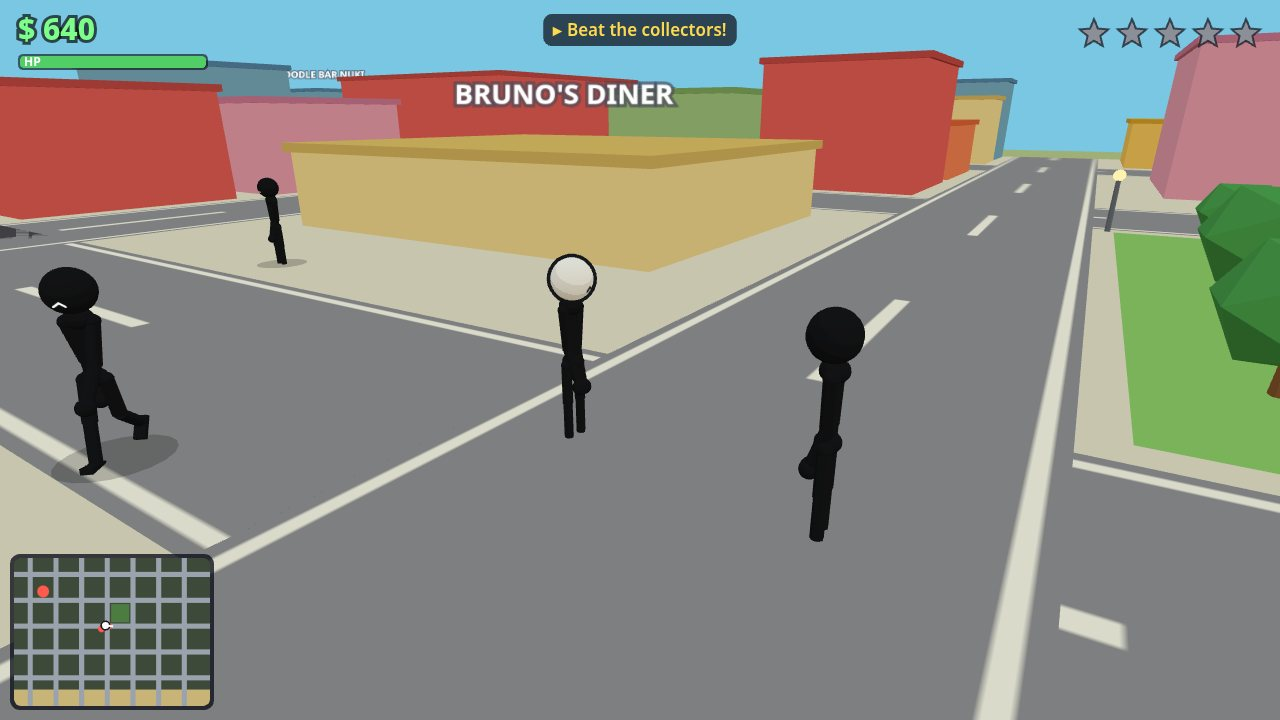
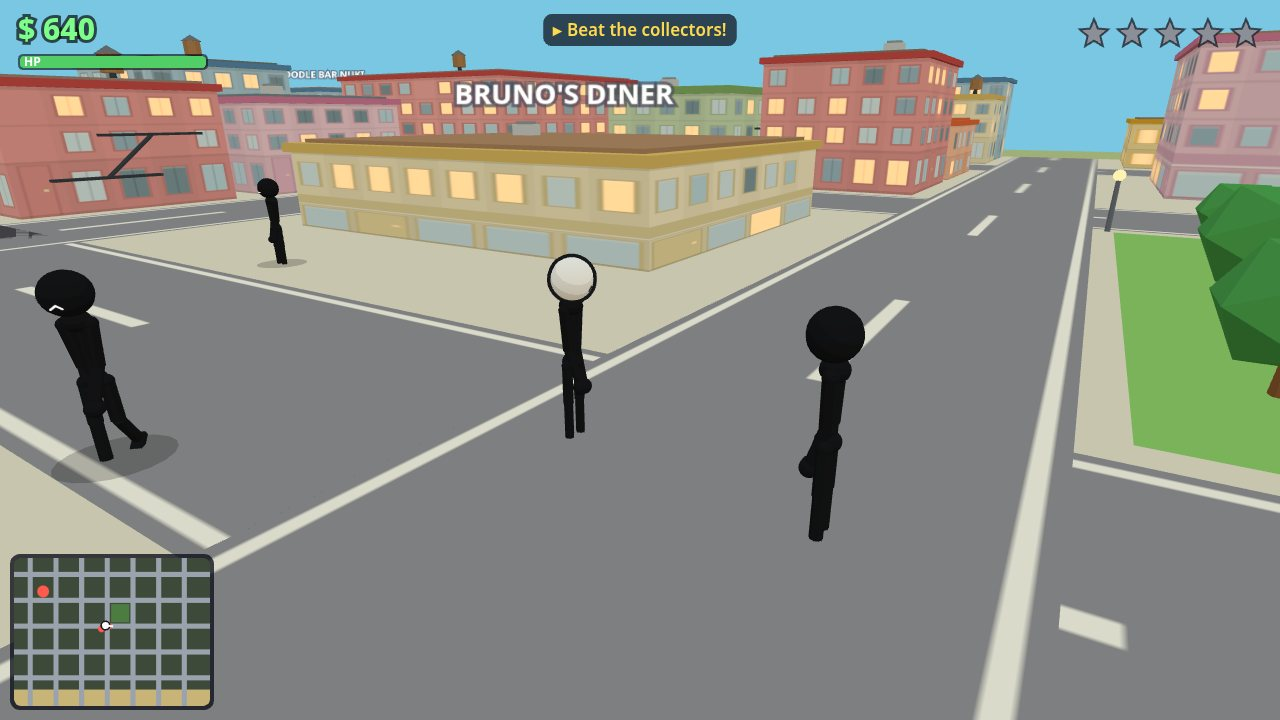
Detailed toon buildings: painted window facades, storefronts, parapets, rooftop props, awnings, fire escapes

diff --git a/game/src/world3d.js b/game/src/world3d.js
@@ -1,8 +1,10 @@
-// The 3D city of Palmera, built from the data in city.js: flat toon-shaded box
-// buildings with roof slabs and name sprites on the landmarks, dark road planes
-// with painted dashes, sidewalks, a park, a beach with a pier, palms and lamps.
-// Everything is procedural geometry in bright flat colours — a sunny diorama, never
-// realistic. World data coordinates (x, y) map to 3D as (x, height, y).
+// The 3D city of Palmera, built from the data in city.js: toon-shaded buildings
+// whose facades are painted on canvas (window grids with frames and lit panes,
+// ground-floor storefronts, doors), with parapet roofs, rooftop props, awnings
+// on the landmarks and a few fire escapes; dark road planes with painted dashes,
+// sidewalks, a park, a beach with a pier, palms and lamps. Everything is
+// procedural in bright flat colours — a sunny diorama, never realistic.
+// World data coordinates (x, y) map to 3D as (x, height, y).
 import * as THREE from 'three';
 import { COLORS, ROAD, WORLD } from './config.js';
 import { toonMat, basicMat, toonGradient } from './stick3d.js';
@@ -60,6 +62,216 @@ function flatPlane(w, h, material) {
   const mesh = new THREE.Mesh(new THREE.PlaneGeometry(w, h), material);
   mesh.rotation.x = -Math.PI / 2;
   return mesh;
+}
+
+/** Deterministic 0..1 hash from a number, so facades are stable between runs. */
+function hash01(n) {
+  const s = Math.sin(n * 127.1 + 311.7) * 43758.5453123;
+  return s - Math.floor(s);
+}
+
+/** A THREE.Color shade of a hex string, scaled by f (1 = unchanged). */
+function shade(hex, f) {
+  const c = new THREE.Color(hex);
+  c.r = Math.min(1, c.r * f);
+  c.g = Math.min(1, c.g * f);
+  c.b = Math.min(1, c.b * f);
+  return `#${c.getHexString()}`;
+}
+
+/** Flat roof tones a parapet cap can wear, besides the building's own wall colour. */
+const ROOF_TONES = ['#8d7d6b', '#a1887f', '#7d8a96', '#b08968', '#6f7d7a', '#96826f'];
+
+/**
+ * Paint one building face onto a canvas: the wall colour with a subtly striped
+ * bay rhythm, a window grid with frames (some panes lit, some reflecting the
+ * sky), floor separator lines, and a ground floor — a glazed storefront with a
+ * sign band for named buildings, larger windows and a door for plain ones.
+ * Returns { map, glow } textures; glow is black except for the lit panes, for
+ * use as an emissive map. faceWidth is the face's width in world units.
+ */
+function makeFacadeTextures(b, faceWidth, hgt, salt) {
+  const S = 192;
+  const canvas = document.createElement('canvas');
+  canvas.width = S;
+  canvas.height = S;
+  const ctx = canvas.getContext('2d');
+  const glowCanvas = document.createElement('canvas');
+  glowCanvas.width = S;
+  glowCanvas.height = S;
+  const glow = glowCanvas.getContext('2d');
+  glow.fillStyle = '#000000';
+  glow.fillRect(0, 0, S, S);
+
+  const wall = b.roof; // the bright facade colour this building already wears
+  const trim = b.wall; // its deeper partner colour: frames, bands, parapet
+  const seed = b.x * 3.7 + b.y * 9.1 + salt * 57.3;
+  const rnd = (k) => hash01(seed + k * 13.73);
+
+  ctx.fillStyle = wall;
+  ctx.fillRect(0, 0, S, S);
+  // A whisper of per-building tint variation.
+  ctx.fillStyle = rnd(1) > 0.5 ? 'rgba(255,255,255,0.06)' : 'rgba(0,0,0,0.05)';
+  ctx.fillRect(0, 0, S, S);
+
+  const floors = Math.max(2, Math.min(5, Math.round(hgt / 27)));
+  const groundFrac = Math.max(0.24, Math.min(0.44, 34 / hgt));
+  const groundH = S * groundFrac;
+  const upperH = S - groundH;
+  const bandH = upperH / (floors - 1);
+  const cols = Math.max(2, Math.min(8, Math.round(faceWidth / 30)));
+  const cellW = S / cols;
+
+  // Vertical bay striping behind the windows.
+  for (let c = 0; c < cols; c += 1) {
+    if (c % 2 === 0) continue;
+    ctx.fillStyle = 'rgba(0,0,0,0.055)';
+    ctx.fillRect(c * cellW, 0, cellW, S);
+  }
+  // Cornice line under the roof and a separator at every floor.
+  ctx.fillStyle = 'rgba(0,0,0,0.20)';
+  ctx.fillRect(0, 0, S, 5);
+  ctx.fillStyle = 'rgba(0,0,0,0.13)';
+  for (let f = 1; f < floors - 1; f += 1) ctx.fillRect(0, f * bandH, S, 3);
+  ctx.fillRect(0, upperH, S, 4);
+
+  const glassTones = ['#bfe3f2', '#8fc3dd', '#5d84a0', '#3c5a68'];
+  function windowPane(x, y, w, h, k) {
+    ctx.fillStyle = shade(trim, 0.72);
+    ctx.fillRect(x - 2.5, y - 2.5, w + 5, h + 5);
+    const r = rnd(k);
+    if (r < 0.30) {
+      ctx.fillStyle = '#ffd98c'; // lit from inside
+      glow.fillStyle = '#ffbe78';
+      glow.fillRect(x, y, w, h);
+    } else {
+      ctx.fillStyle = glassTones[Math.floor(rnd(k + 40) * glassTones.length)];
+    }
+    ctx.fillRect(x, y, w, h);
+    ctx.fillStyle = 'rgba(255,255,255,0.20)';
+    ctx.fillRect(x, y, w, 2.5); // sill highlight
+    if (w > 15) { // a mullion cross on wider panes
+      ctx.fillStyle = 'rgba(0,0,0,0.22)';
+      ctx.fillRect(x + w / 2 - 1, y, 2, h);
+    }
+  }
+
+  // Upper floors: the window grid.
+  for (let f = 0; f < floors - 1; f += 1) {
+    const bandY = f * bandH;
+    const wh = bandH * 0.52;
+    const wy = bandY + (bandH - wh) / 2;
+    for (let c = 0; c < cols; c += 1) {
+      if (rnd(f * 31 + c * 7) < 0.07) continue; // the odd blank bay
+      const ww = cellW * 0.5;
+      windowPane(c * cellW + (cellW - ww) / 2, wy, ww, wh, f * 100 + c);
+    }
+  }
+
+  // Ground floor.
+  const gy = upperH;
+  ctx.fillStyle = 'rgba(0,0,0,0.10)';
+  ctx.fillRect(0, gy, S, groundH);
+  if (b.name) {
+    // Storefront: a sign band over wide glazed panels and a framed door.
+    const signH = groundH * 0.30;
+    ctx.fillStyle = shade(trim, 0.82);
+    ctx.fillRect(0, gy, S, signH);
+    ctx.fillStyle = 'rgba(255,255,255,0.75)';
+    ctx.fillRect(0, gy + signH - 4, S, 2.5);
+    const panels = Math.max(2, Math.round(faceWidth / 46));
+    const pw = S / panels;
+    const doorAt = Math.floor(rnd(77) * panels);
+    for (let p = 0; p < panels; p += 1) {
+      const px = p * pw + 4;
+      const py = gy + signH + 5;
+      const pwid = pw - 8;
+      const ph = groundH - signH - 9;
+      ctx.fillStyle = shade(trim, 0.72);
+      ctx.fillRect(px - 2, py - 2, pwid + 4, ph + 4);
+      if (p === doorAt) {
+        ctx.fillStyle = shade(trim, 1.05);
+        ctx.fillRect(px, py, pwid, ph);
+        ctx.fillStyle = '#ffd98c';
+        ctx.fillRect(px + pwid - 8, py + ph * 0.45, 4, 4); // handle
+        glow.fillStyle = '#7a5a30';
+        glow.fillRect(px + pwid - 8, py + ph * 0.45, 4, 4);
+      } else {
+        ctx.fillStyle = rnd(p + 90) < 0.35 ? '#ffd98c' : '#a8d4ea';
+        ctx.fillRect(px, py, pwid, ph);
+        if (rnd(p + 90) < 0.35) {
+          glow.fillStyle = '#e8a95e';
+          glow.fillRect(px, py, pwid, ph);
+        }
+        ctx.fillStyle = 'rgba(255,255,255,0.25)';
+        ctx.fillRect(px, py, pwid, 4);
+      }
+    }
+  } else {
+    // Plain ground floor: larger windows and a door on wider faces.
+    const doorCol = faceWidth >= 90 ? Math.floor(rnd(78) * cols) : -1;
+    for (let c = 0; c < cols; c += 1) {
+      const cx = c * cellW;
+      if (c === doorCol) {
+        const dw = cellW * 0.52;
+        const dx = cx + (cellW - dw) / 2;
+        ctx.fillStyle = shade(trim, 0.72);
+        ctx.fillRect(dx - 2.5, gy + 5, dw + 5, groundH - 5);
+        ctx.fillStyle = shade(trim, 1.1);
+        ctx.fillRect(dx, gy + 7, dw, groundH - 7);
+        ctx.fillStyle = '#ffd98c';
+        ctx.fillRect(dx + dw - 7, gy + groundH * 0.5, 3.5, 3.5);
+      } else {
+        const ww = cellW * 0.58;
+        const wh = groundH * 0.55;
+        windowPane(cx + (cellW - ww) / 2, gy + (groundH - wh) / 2, ww, wh, 500 + c);
+      }
+    }
+  }
+  // Plinth line at the pavement.
+  ctx.fillStyle = 'rgba(0,0,0,0.22)';
+  ctx.fillRect(0, S - 4, S, 4);
+
+  const map = new THREE.CanvasTexture(canvas);
+  map.anisotropy = 4;
+  const glowTex = new THREE.CanvasTexture(glowCanvas);
+  return { map, glow: glowTex };
+}
+
+/** The direction ('n'|'s'|'e'|'w') from a building toward its nearest road. */
+function frontDir(b) {
+  const cx = b.x + b.w / 2;
+  const cy = b.y + b.h / 2;
+  let best = { d: Infinity, dir: 's' };
+  for (const a of ROAD.avenues) {
+    const d = Math.abs(cx - a);
+    if (d < best.d) best = { d, dir: cx < a ? 'e' : 'w' };
+  }
+  for (const s of ROAD.streets) {
+    const d = Math.abs(cy - s);
+    if (d < best.d) best = { d, dir: cy < s ? 's' : 'n' };
+  }
+  return best.dir;
+}
+
+/** Shared striped awning textures, one per trim colour. */
+const awningTexCache = new Map();
+function awningMaterial(trimHex) {
+  if (!awningTexCache.has(trimHex)) {
+    const canvas = document.createElement('canvas');
+    canvas.width = 64;
+    canvas.height = 16;
+    const ctx = canvas.getContext('2d');
+    for (let i = 0; i < 8; i += 1) {
+      ctx.fillStyle = i % 2 === 0 ? '#f7f3df' : trimHex;
+      ctx.fillRect(i * 8, 0, 8, 16);
+    }
+    const tex = new THREE.CanvasTexture(canvas);
+    tex.wrapS = THREE.RepeatWrapping;
+    tex.repeat.set(3, 1);
+    awningTexCache.set(trimHex, new THREE.MeshToonMaterial({ map: tex, gradientMap: toonGradient() }));
+  }
+  return awningTexCache.get(trimHex);
 }
 
 /**
@@ -134,18 +346,131 @@ export function buildWorld(scene, city) {
     }
   }
 
-  // Buildings: a toon box, a darker roof slab, and a name sprite when named.
+  // Buildings: a box wearing painted canvas facades (window grids, storefronts,
+  // doors), a parapet slab, a varied flat roof, rooftop props on some, an
+  // awning and step for the named landmarks, a fire escape on a few tall
+  // blocks, and a floating name sprite when named. Footprints are unchanged,
+  // so collision data in city.js still matches what is drawn.
+  const roofMats = ROOF_TONES.map((t) => toonMat(new THREE.Color(t).getHex()));
+  const acMat = toonMat(0xcfd4d8);
+  const acTopMat = toonMat(0x9aa1a6);
+  const towerMat = toonMat(0xa97c50);
+  const towerRoofMat = toonMat(0x707880);
+  const metalMat = toonMat(0x3a3f46);
+  const stepMat = toonMat(0xcac2ae);
   for (const b of city.buildings) {
     const hgt = b.height * 1.9;
-    const box = new THREE.Mesh(new THREE.BoxGeometry(b.w, hgt, b.h), toonMat(new THREE.Color(b.roof).getHex()));
-    box.position.set(b.x + b.w / 2, hgt / 2, b.y + b.h / 2);
+    const cx = b.x + b.w / 2;
+    const cz = b.y + b.h / 2;
+    const seed = b.x * 3.7 + b.y * 9.1;
+    const wide = makeFacadeTextures(b, b.w, hgt, 1);
+    const narrow = makeFacadeTextures(b, b.h, hgt, 2);
+    const faceMat = (t) => new THREE.MeshToonMaterial({
+      map: t.map, emissiveMap: t.glow, emissive: 0xffc98a, emissiveIntensity: 0.55,
+      gradientMap: toonGradient(),
+    });
+    const roofMat = hash01(seed + 5) < 0.55
+      ? roofMats[Math.floor(hash01(seed + 6) * roofMats.length)]
+      : toonMat(new THREE.Color(b.wall).getHex());
+    const narrowMat = faceMat(narrow);
+    const wideMat = faceMat(wide);
+    const box = new THREE.Mesh(
+      new THREE.BoxGeometry(b.w, hgt, b.h),
+      [narrowMat, narrowMat, roofMat, roofMat, wideMat, wideMat],
+    );
+    box.position.set(cx, hgt / 2, cz);
     group.add(box);
+    // Parapet: the familiar cap slab, in the building's trim colour, with a
+    // slightly inset roof deck on top wearing a varied flat roof tone.
     const slab = new THREE.Mesh(new THREE.BoxGeometry(b.w + 6, 5, b.h + 6), toonMat(new THREE.Color(b.wall).getHex()));
-    slab.position.set(b.x + b.w / 2, hgt + 2.5, b.y + b.h / 2);
+    slab.position.set(cx, hgt + 2.5, cz);
     group.add(slab);
+    const deck = new THREE.Mesh(new THREE.BoxGeometry(Math.max(10, b.w - 12), 2, Math.max(10, b.h - 12)), roofMat);
+    deck.position.set(cx, hgt + 6, cz);
+    group.add(deck);
+
+    // Rooftop props, hash-picked: a water tower on some tall blocks, an AC
+    // unit or a vent pipe on others. They sit on the roof deck (top hgt+7).
+    const propR = hash01(seed + 11);
+    const offX = (hash01(seed + 12) - 0.5) * Math.max(0, b.w - 44);
+    const offZ = (hash01(seed + 13) - 0.5) * Math.max(0, b.h - 44);
+    if (hgt > 62 && propR < 0.30) {
+      const tower = new THREE.Group();
+      const tank = new THREE.Mesh(new THREE.CylinderGeometry(7.5, 7.5, 13, 10), towerMat);
+      tank.position.y = 12.5;
+      const cone = new THREE.Mesh(new THREE.ConeGeometry(9, 6, 10), towerRoofMat);
+      cone.position.y = 22;
+      const stand = new THREE.Mesh(new THREE.CylinderGeometry(2.2, 2.8, 6, 8), metalMat);
+      stand.position.y = 3;
+      tower.add(tank, cone, stand);
+      tower.position.set(cx + offX, hgt + 7, cz + offZ);
+      group.add(tower);
+    } else if (propR < 0.62) {
+      const ac = new THREE.Mesh(new THREE.BoxGeometry(15, 7, 11), acMat);
+      ac.position.set(cx + offX, hgt + 10.5, cz + offZ);
+      const acTop = new THREE.Mesh(new THREE.BoxGeometry(11, 1.8, 8), acTopMat);
+      acTop.position.set(cx + offX, hgt + 14.9, cz + offZ);
+      group.add(ac, acTop);
+    } else if (propR < 0.78) {
+      const vent = new THREE.Mesh(new THREE.CylinderGeometry(2.6, 2.6, 7, 8), acTopMat);
+      vent.position.set(cx + offX, hgt + 10.5, cz + offZ);
+      group.add(vent);
+    }
+
+    // Fire escape on a few tall plain blocks: stacked platforms on the east
+    // face with diagonal stairs, in dark metal. Lowest platform is above the
+    // collision push-out distance, so nobody clips it at street level.
+    if (!b.name && hgt >= 74 && hash01(seed + 21) < 0.30) {
+      const floors = Math.max(2, Math.min(5, Math.round(hgt / 27)));
+      const platW = Math.min(b.h * 0.5, 64);
+      const platGeo = new THREE.BoxGeometry(7, 1.6, platW);
+      let prev = null;
+      for (let f = 1; f < floors; f += 1) {
+        const py = f * 27 - 5;
+        const plat = new THREE.Mesh(platGeo, metalMat);
+        plat.position.set(b.x + b.w + 3.5, py, cz + (f % 2 === 0 ? -platW / 4 : platW / 4));
+        group.add(plat);
+        if (prev) {
+          const dz = plat.position.z - prev.position.z;
+          const dy = py - prev.position.y;
+          const len = Math.hypot(dz, dy);
+          const stair = new THREE.Mesh(new THREE.BoxGeometry(5, 1.2, len), metalMat);
+          stair.position.set(b.x + b.w + 3.5, (py + prev.position.y) / 2, (plat.position.z + prev.position.z) / 2);
+          stair.rotation.x = -Math.atan2(dy, dz);
+          group.add(stair);
+        }
+        prev = { position: plat.position, y: py };
+      }
+    }
+
+    // Named landmarks get a striped awning over the storefront on the face
+    // toward the nearest road, and a shallow entrance step below it.
     if (b.name) {
+      const dir = frontDir(b);
+      const out = { n: [0, -1], s: [0, 1], e: [1, 0], w: [-1, 0] }[dir];
+      const faceLen = dir === 'n' || dir === 's' ? b.w : b.h;
+      const faceDist = dir === 'n' || dir === 's' ? b.h / 2 : b.w / 2;
+      const awnLen = Math.min(faceLen * 0.62, 120);
+      // A yawed group whose local +z points out of the facade; inside it the
+      // awning slab tilts down away from the wall.
+      const awnGroup = new THREE.Group();
+      awnGroup.position.set(cx + out[0] * faceDist, 35, cz + out[1] * faceDist);
+      awnGroup.rotation.y = Math.atan2(out[0], out[1]);
+      const awning = new THREE.Mesh(new THREE.BoxGeometry(awnLen, 1.7, 11), awningMaterial(b.wall));
+      awning.position.z = 4.6;
+      awning.rotation.x = 0.42;
+      awnGroup.add(awning);
+      group.add(awnGroup);
+      const step = new THREE.Mesh(new THREE.BoxGeometry(30, 1.6, 7), stepMat);
+      step.position.set(
+        cx + out[0] * ((dir === 'e' || dir === 'w' ? b.w / 2 : 0) + 2.6),
+        0.8,
+        cz + out[1] * ((dir === 'n' || dir === 's' ? b.h / 2 : 0) + 2.6),
+      );
+      if (dir === 'e' || dir === 'w') step.rotation.y = Math.PI / 2;
+      group.add(step);
       const label = makeTextSprite(b.name, { size: 40, scale: 0.9 });
-      label.position.set(b.x + b.w / 2, hgt + 30, b.y + b.h / 2);
+      label.position.set(cx, hgt + 30, cz);
       group.add(label);
     }
   }
